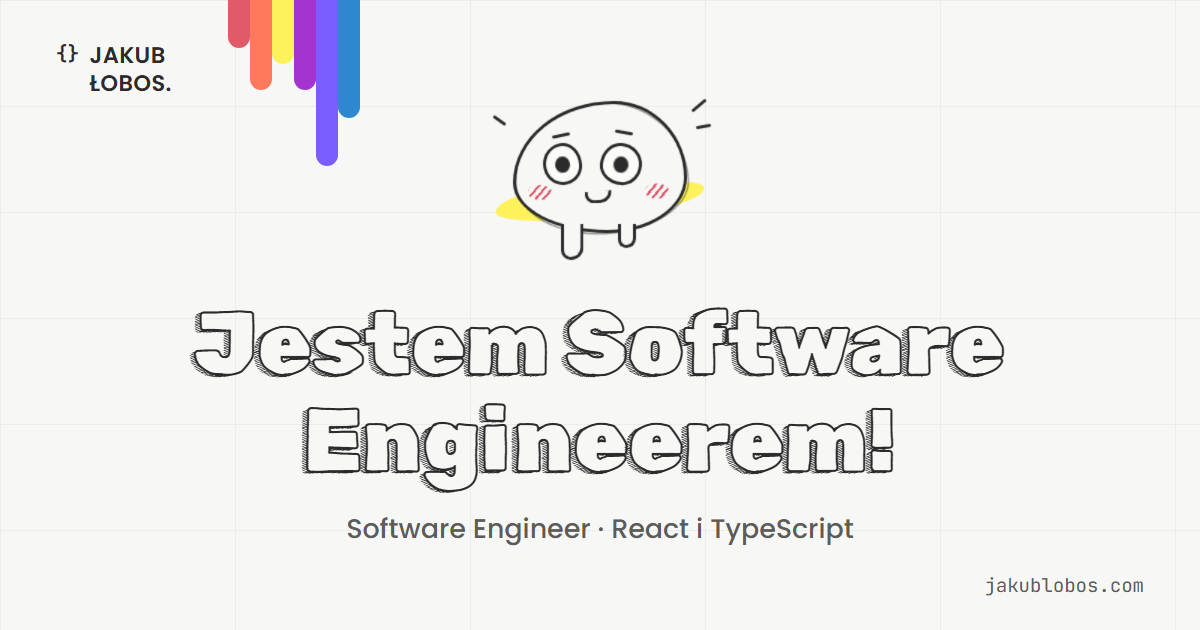
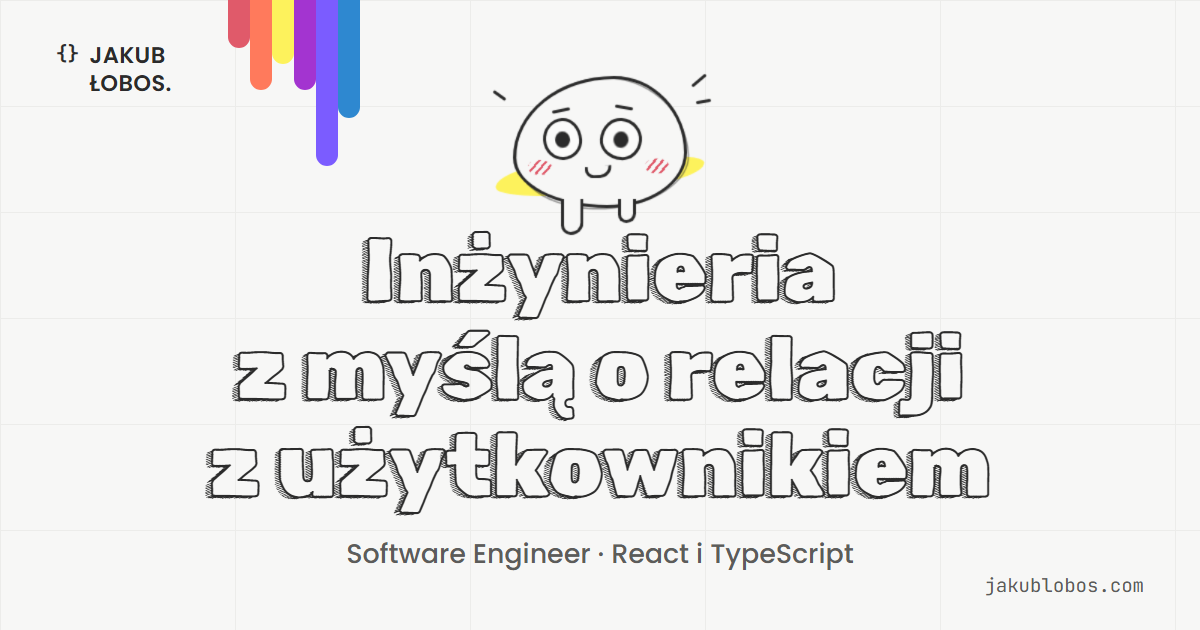
feat(web): new hero headline about the user relationship [T-065]

Changed region(s): [[0.1542, 0.1206, 0.8325, 0.9048]]

diff --git a/apps/web/src/i18n/messages/seo.ts b/apps/web/src/i18n/messages/seo.ts
@@ -6,7 +6,7 @@ export const seo = defineMessages({
     og: {
       subtitle: 'Software Engineer · React & TypeScript',
       domain: 'jakublobos.com',
-      alt: 'Jakub Łobos, Software Engineer: a hand-drawn mascot under the headline “I’m a Software Engineer!”',
+      alt: 'Jakub Łobos, Software Engineer: a hand-drawn mascot under the headline “Engineering with the user relationship in mind”',
     },
     home: {
       title: 'Jakub Łobos — Software Engineer Portfolio',
@@ -27,7 +27,7 @@ export const seo = defineMessages({
     og: {
       subtitle: 'Software Engineer · React i TypeScript',
       domain: 'jakublobos.com',
-      alt: 'Jakub Łobos, Software Engineer: ręcznie rysowana maskotka pod hasłem „Jestem Software Engineerem!”',
+      alt: 'Jakub Łobos, Software Engineer: ręcznie rysowana maskotka pod hasłem „Inżynieria z myślą o relacji z użytkownikiem”',
     },
     home: {
       title: 'Jakub Łobos — portfolio Software Engineera',

diff --git a/apps/web/src/i18n/messages/hero.ts b/apps/web/src/i18n/messages/hero.ts
@@ -4,7 +4,7 @@ import { defineMessages } from '../t.ts';
 // (Polish "w figmie").
 export const hero = defineMessages({
   en: {
-    title: 'I’m a Software Engineer!',
+    title: 'Engineering with the user relationship in mind',
     build: {
       before: 'I’m making web-apps mostly in',
       first: 'react',
@@ -16,7 +16,7 @@ export const hero = defineMessages({
     resume: 'Get my resume',
   },
   pl: {
-    title: 'Jestem Software Engineerem!',
+    title: 'Inżynieria z myślą o relacji z użytkownikiem',
     build: {
       before: 'Tworzę aplikacje webowe głównie w',
       first: 'react',

diff --git a/tasks/T-065-hero-headline.md b/tasks/T-065-hero-headline.md
@@ -1,0 +1,52 @@
+# T-065: New hero headline
+
+- **Wave:** 7 (copy) · **Size:** S · **Depends on:** T-024, T-035, T-060 (done)
+- **Owner decision (2026-10-27):** the hero `h1` changes from "I'm a Software Engineer!" / "Jestem Software Engineerem!" to:
+  - **PL:** `Inżynieria z myślą o relacji z użytkownikiem`
+  - **EN:** `Engineering with the user relationship in mind` (orchestrator's translation of the owner's PL line; flag it for owner review in the report)
+
+  The language follows the page locale, as all copy does.
+
+## Scope
+
+1. `apps/web/src/i18n/messages/hero.ts`: `title` in `en` and `pl`. Use the exact strings above: no trailing punctuation, sentence case, typographic characters only where the language needs them.
+2. **The headline is quoted elsewhere; keep it consistent:**
+   - `apps/web/src/i18n/messages/seo.ts`: `og.alt` in EN and PL quotes the old headline ("…a hand-drawn mascot under the headline “I'm a Software Engineer!”"). Update the quote in both locales. Leave the SEO `title`, `description`, `og.subtitle` and `profile.role` as they are: the owner changed only the hero headline.
+   - `docs/content/pl-copy-review.md`: the hero `title` row and the `og.alt` row.
+3. **OG share images:** `apps/web/src/dev/og.astro` renders `hero(locale).title`, and `pnpm og:generate` (`tools/og/render-og.ts`) screenshots it into `apps/web/public/og/og-{en,pl}.png`. Regenerate both images and check visually that the longer headline fits the 1200 × 630 card without clipping or overflow. If it doesn't fit, adjust only the headline sizing or wrapping in `dev/og.astro` with existing tokens (e.g. `text-wrap: balance`, a smaller existing `--text-*` token), and report what you changed.
+4. **Hero layout check:** the new line is about twice as long. Check the hero at 390, 768, 1024 and 1440 px in both locales:
+   - The `h1` wraps nicely (`text-wrap: balance` is likely already there).
+   - Nothing overflows horizontally, and long Polish words like "użytkownikiem" don't overflow at 390 px.
+   - The mascot and buttons keep their design positions.
+   - The T-060 ink entrance (`hero-ink` clip-path, negative insets) still reveals the whole multi-line headline, including descenders and doodle-font glyphs.
+
+   Change hero CSS only if something actually breaks, using existing tokens and the component-scoped style, and say why in the report.
+
+5. **Tests:** update unit tests or e2e specs that assert the old headline text (search `apps/web` for "Software Engineer!" and "Software Engineerem"). Don't add new tests.
+
+## Constraints
+
+- No other copy changes. No new tokens. CSP rules as usual. Reduced motion and forced colours unaffected.
+- Component styles stay component-scoped (ADR-0008); motion keyframes stay in `styles/motion/hero.css`.
+
+## Allowed files
+
+`apps/web/src/i18n/messages/hero.ts`, `apps/web/src/i18n/messages/seo.ts` (`og.alt` only), `apps/web/src/dev/og.astro` (headline sizing only, if needed), `apps/web/public/og/og-en.png`, `apps/web/public/og/og-pl.png`, `apps/web/src/components/sections/Hero.astro` (headline CSS only, if needed), tests or specs asserting the old text, `docs/content/pl-copy-review.md` (the two rows), `tasks/T-065-hero-headline.md` (commit this spec), `tasks/reports/T-065/**`.
+
+## Acceptance criteria
+
+1. `/` (EN) shows "Engineering with the user relationship in mind"; `/pl/` shows "Inżynieria z myślą o relacji z użytkownikiem".
+2. No overflow or clipping at 390, 768, 1024 or 1440 px in either locale; the entrance animation reveals the full headline.
+3. The OG images show the new headline, fully visible; `og.alt` matches.
+4. `pnpm verify` green.
+
+## Validation
+
+- `pnpm verify`; `pnpm og:generate` (read `tools/og/render-og.ts` first and check which port it uses; never use 3000/4321, which the owner's `pnpm dev` holds, and if it hard-codes one of those, report it instead of killing anything).
+- Throwaway Playwright screenshots against `pnpm --filter @portfolio/web build` + `pnpm --filter @portfolio/web exec astro preview --port 4405` (**port 4405 only**; kill only PIDs you started):
+  - the hero at the four widths × two locales;
+  - the settled state;
+  - one mid-animation frame at 1440 px;
+  - `scrollWidth <= clientWidth` on `<html>`.
+- Keep a small, representative set of screenshots in `tasks/reports/T-065/screenshots/` (max ~6 PNGs) and list them in the report.
+- Don't run `pnpm test:e2e`.

diff --git a/tasks/reports/T-065/implementation-r1.md b/tasks/reports/T-065/implementation-r1.md
@@ -1,0 +1,55 @@
+# T-065 implementation report, round 1
+
+## Changed files
+
+- `apps/web/src/i18n/messages/hero.ts`: `title` EN "Engineering with the user relationship in mind", PL "Inżynieria z myślą o relacji z użytkownikiem".
+- `apps/web/src/i18n/messages/seo.ts`: `og.alt` quote updated in both locales (nothing else in the file).
+- `docs/content/pl-copy-review.md`: hero `title` row and `og.alt` row.
+- `apps/web/public/og/og-en.png`, `apps/web/public/og/og-pl.png`: regenerated.
+- `tasks/T-065-hero-headline.md`: spec committed (run through Prettier, which `format:check` requires; content unchanged).
+- `tasks/reports/T-065/**`: this report and 6 screenshots.
+
+No test or e2e spec asserted the old headline (`grep` for "Software Engineer!" / "Software Engineerem" in `apps/web` found only copy, SEO and content sources), so no test changes. No new tests.
+
+## Layout check (built site, `astro preview` on port 4405, Chromium, settled state after 2.5 s)
+
+`<html>` `scrollWidth` / `clientWidth`, and `h1` `scrollWidth` / `clientWidth`:
+
+| Locale  | 390     | 768     | 1024      | 1440      |
+| ------- | ------- | ------- | --------- | --------- |
+| EN html | 390/390 | 768/768 | 1024/1024 | 1440/1440 |
+| PL html | 390/390 | 768/768 | 1024/1024 | 1440/1440 |
+| EN h1   | 350/350 | 691/691 | 877/877   | 856/856   |
+| PL h1   | 354/354 | 691/691 | 877/877   | 856/856   |
+
+No horizontal overflow anywhere; "użytkownikiem" fits at 390 px (3 balanced lines). The headline wraps to 3 lines at 390 and 1440 px, 2 at 768 and 1024. Mascot and buttons keep their positions. The mid-animation frame at 1440 px (`en-1440-mid.png`) shows the ink clip reveal across all three lines, and the settled frame shows descenders ("g", "p") and doodle glyphs fully visible, so the T-060 negative insets (`-0.3em`) are sufficient for the multi-line headline.
+
+Screenshots in `tasks/reports/T-065/screenshots/`: `en-390.png`, `en-1440.png`, `en-1440-mid.png`, `pl-390.png`, `pl-768.png`, `pl-1440.png`.
+
+## OG regeneration
+
+`pnpm og:generate` (picks a free random port, never 3000/4321): `og-en.png` 131289 bytes, `og-pl.png` 135375 bytes (under the 300 KB cap). Both viewed: the headline wraps to 3 balanced lines, fully inside the 1200 × 630 card, no clipping, subtitle and domain unobstructed. No change to `dev/og.astro` was needed.
+
+## CSS changes
+
+None. `Hero.astro`, `styles/motion/hero.css` and `dev/og.astro` are untouched; `text-wrap: balance` already handles the longer line.
+
+## `pnpm verify`
+
+Green end to end (format:check, lint, typecheck, test, build, check:budgets). Tests: contracts 153, server 412, web 344 passed. Budgets OK (critical JS 15.7/35 KB, CSS 12.3/25 KB). The first run failed `format:check` on the unformatted spec file; fixed with Prettier and re-run green.
+
+## Acceptance criteria
+
+1. EN `/` and PL `/pl` render the new text (h1 text captured by Playwright above).
+2. No overflow or clipping at the four widths, either locale; entrance reveals the full headline (screenshots).
+3. OG images regenerated and visually checked; `og.alt` matches.
+4. `pnpm verify` green.
+
+## Owner review needed
+
+- The EN headline "Engineering with the user relationship in mind" is the orchestrator's translation of the owner's PL line; the PL string is the owner's own. Both rows in `docs/content/pl-copy-review.md` have an empty review column for sign-off.
+
+## Open issues
+
+- The hero `h1` now reads differently from the unchanged SEO `title`/`description`/`og.subtitle`/`profile.role` ("Software Engineer"), per the task scope.
+- `pnpm test:e2e` was not run (host constraint).

diff --git a/docs/content/pl-copy-review.md b/docs/content/pl-copy-review.md
@@ -65,7 +65,7 @@ Source: `apps/web/src/i18n/messages/hero.ts`
 
 | Key | EN | PL | Owner correction |
 | --- | -- | -- | ---------------- |
-| `title` | I’m a Software Engineer! | Jestem Software Engineerem! |   |
+| `title` | Engineering with the user relationship in mind | Inżynieria z myślą o relacji z użytkownikiem |   |
 | `build.before` | I’m making web-apps mostly in | Tworzę aplikacje webowe głównie w |   |
 | `build.first` | react | react |   |
 | `build.join` | & | i |   |
@@ -262,7 +262,7 @@ Source: `apps/web/src/i18n/messages/seo.ts`
 | --- | -- | -- | ---------------- |
 | `og.subtitle` | Software Engineer · React & TypeScript | Software Engineer · React i TypeScript |   |
 | `og.domain` | jakublobos.com | jakublobos.com |   |
-| `og.alt` | Jakub Łobos, Software Engineer: a hand-drawn mascot under the headline “I’m a Software Engineer!” | Jakub Łobos, Software Engineer: ręcznie rysowana maskotka pod hasłem „Jestem Software Engineerem!” |   |
+| `og.alt` | Jakub Łobos, Software Engineer: a hand-drawn mascot under the headline “Engineering with the user relationship in mind” | Jakub Łobos, Software Engineer: ręcznie rysowana maskotka pod hasłem „Inżynieria z myślą o relacji z użytkownikiem” |   |
 | `home.title` | Jakub Łobos — Software Engineer Portfolio | Jakub Łobos — portfolio Software Engineera |   |
 | `home.description` | Portfolio of Jakub Łobos, a software engineer building web apps with React and TypeScript and designing them in Figma. | Portfolio Jakuba Łobosa — Software Engineera, który tworzy aplikacje webowe w React i TypeScript i projektuje je w Figmie. |   |
 | `privacy.title` | Privacy policy — Jakub Łobos | Polityka prywatności — Jakub Łobos |   |
